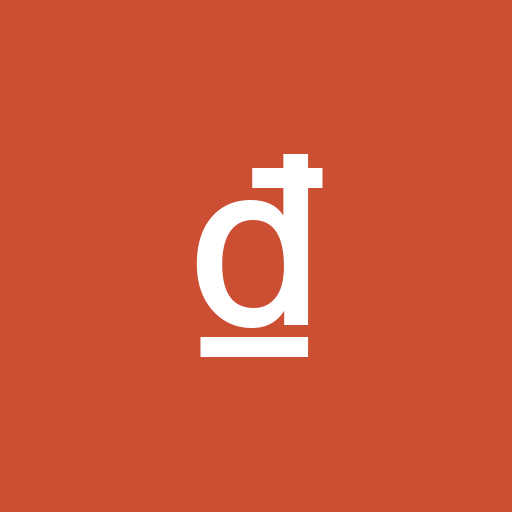
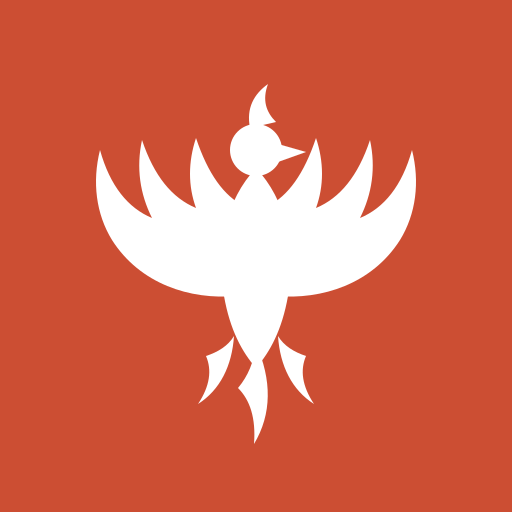
Rebrand the bot as Phoenix, reborn on the new engine
The bot got a whole new LLM engine (the pi harness swap), so it gets a
new identity to match: Phoenix, risen from the ashes of the old engine.

- @phoenix is now the mention handle (BOT_HANDLE default). Both @phoenix
  and legacy @bot are hardcoded in mention/clear detection, so old
  muscle memory and stale .env files keep working either way.
- The persona introduces itself as Phoenix and can explain its name
  when asked (reborn on a new engine — no invented technical detail).
- History rendering labels bot lines 'phoenix:' to match the persona;
  bench export mirrors it so replays stay faithful.
- App renamed user-facing: manifest (Phoenix — chia tiền ăn), page
  title, landing h1, room-switcher fallback, chat labels, composer
  placeholder, suggestion chips, empty-state and typing indicators.
- New app icon: a white phoenix rising from flame on the existing
  #CC4E33 terracotta, drawn as SVG (scripts/icon-phoenix.svg) and
  rasterized by the rewritten gen-icons.py (cairosvg). Service-worker
  cache bumped to phoenix-v1 so installed PWAs pick everything up.

Tests: backend 751 passed, frontend 203 passed, next build clean.

Claude-Session: https://claude.ai/code/session_01MQHWo9HDQnExpz4KJa6tKk

Changed region(s): [[0.1875, 0.1562, 0.8125, 0.8438]]

diff --git a/frontend/src/components/chat/suggestion-chips.tsx b/frontend/src/components/chat/suggestion-chips.tsx
@@ -1,10 +1,10 @@
 "use client";
 
 /** Capability suggestions surfaced as tappable chips above the composer.
- * Tapping one prefills the composer with an editable `@bot …` message (it never
- * auto-sends), so newcomers discover what the bot can do. `text` is the exact
- * prefill inserted; a trailing space (e.g. "@bot I paid ") invites completion,
- * while a full phrase is ready to send as-is. */
+ * Tapping one prefills the composer with an editable `@phoenix …` message (it
+ * never auto-sends), so newcomers discover what the bot can do. `text` is the
+ * exact prefill inserted; a trailing space (e.g. "@phoenix I paid ") invites
+ * completion, while a full phrase is ready to send as-is. */
 export interface Suggestion {
   label: string;
   icon: string;
@@ -12,9 +12,9 @@ export interface Suggestion {
 }
 
 export const SUGGESTIONS: Suggestion[] = [
-  { label: "Log an expense", icon: "🍜", text: "@bot I paid " },
-  { label: "Who pays this week", icon: "🧮", text: "@bot who pays this week" },
-  { label: "Who do I owe", icon: "💰", text: "@bot how much do I owe" },
+  { label: "Log an expense", icon: "🍜", text: "@phoenix I paid " },
+  { label: "Who pays this week", icon: "🧮", text: "@phoenix who pays this week" },
+  { label: "Who do I owe", icon: "💰", text: "@phoenix how much do I owe" },
 ];
 
 export function SuggestionChips({ onPick }: { onPick: (text: string) => void }) {

diff --git a/frontend/src/components/chat/message-list.tsx b/frontend/src/components/chat/message-list.tsx
@@ -114,7 +114,7 @@ export function MessageList({
         ) : m.kind === "expense_draft" ? (
           <div key={m.id} className="flex flex-col items-start">
             <span className="mb-1 px-1 text-xs font-medium text-[var(--accent-text)]">
-              Bot
+              Phoenix
             </span>
             {turnSteps && <AgentTimeline steps={turnSteps} live={false} />}
             <ExpenseDraftCard message={m} members={members} roomId={roomId} />
@@ -122,7 +122,7 @@ export function MessageList({
         ) : m.kind === "payment_draft" ? (
           <div key={m.id} className="flex flex-col items-start">
             <span className="mb-1 px-1 text-xs font-medium text-[var(--accent-text)]">
-              Bot
+              Phoenix
             </span>
             {turnSteps && <AgentTimeline steps={turnSteps} live={false} />}
             <PaymentDraftCard message={m} members={members} roomId={roomId} />
@@ -130,7 +130,7 @@ export function MessageList({
         ) : m.kind === "bot" ? (
           <div key={m.id} className="flex flex-col items-start">
             <span className="mb-1 px-1 text-xs font-medium text-[var(--accent-text)]">
-              Bot
+              Phoenix
             </span>
             <BotMessage body={m.body} attachments={m.attachments} roomId={roomId}
                         members={members} onOpenLedger={onOpenLedger} />

diff --git a/frontend/src/components/chat/room-view.tsx b/frontend/src/components/chat/room-view.tsx
@@ -503,7 +503,7 @@ export function RoomView({ roomId }: { roomId: number }) {
           )}
           {messages.length === 0 && !hasMore && !typing && (
             <p className="mt-8 text-center text-sm text-[var(--text-secondary)]">
-              No messages yet. Tap a suggestion below or message @bot.
+              No messages yet. Tap a suggestion below or message @phoenix.
             </p>
           )}
           <MessageList messages={messages} members={members} roomId={roomId} timelines={timelines}
@@ -527,7 +527,7 @@ export function RoomView({ roomId }: { roomId: number }) {
                     <span className="h-1.5 w-1.5 animate-bounce rounded-full bg-[var(--accent-primary)] [animation-delay:-0.15s]" />
                     <span className="h-1.5 w-1.5 animate-bounce rounded-full bg-[var(--accent-primary)]" />
                   </span>
-                  bot is replying…
+                  Phoenix is replying…
                 </div>
               )}
             </>

diff --git a/frontend/src/components/chat/composer.tsx b/frontend/src/components/chat/composer.tsx
@@ -30,7 +30,7 @@ export function Composer({ onSend }: ComposerProps) {
   const [sending, setSending] = useState(false);
   const [processing, setProcessing] = useState(false);
   const [notice, setNotice] = useState("");
-  const [handles, setHandles] = useState<string[]>(["bot"]);
+  const [handles, setHandles] = useState<string[]>(["phoenix"]);
   const [mention, setMention] = useState<MentionState | null>(null);
   const fileRef = useRef<HTMLInputElement>(null);
   const textareaRef = useRef<HTMLTextAreaElement>(null);
@@ -277,7 +277,7 @@ export function Composer({ onSend }: ComposerProps) {
             onClick={(e) => recomputeMention(e.currentTarget)}
             onBlur={() => setMention(null)}
             rows={1}
-            placeholder="Message… (@bot)"
+            placeholder="Message… (@phoenix)"
             aria-label="Compose message"
             aria-expanded={mention !== null && mentionItems.length > 0}
             aria-haspopup="listbox"

diff --git a/frontend/src/components/chat/__tests__/composer-suggestions.test.tsx b/frontend/src/components/chat/__tests__/composer-suggestions.test.tsx
@@ -4,7 +4,7 @@ import { Composer } from "../composer";
 import { SUGGESTIONS } from "../suggestion-chips";
 
 // Composer fetches the bot handle on mount; stub it so tests don't hit the network.
-vi.mock("@/lib/api", () => ({ botHandle: () => Promise.resolve("bot") }));
+vi.mock("@/lib/api", () => ({ botHandle: () => Promise.resolve("phoenix") }));
 
 describe("Composer suggestion chips", () => {
   it("shows capability chips while the composer is empty", () => {
@@ -25,7 +25,7 @@ describe("Composer suggestion chips", () => {
     render(<Composer onSend={() => {}} />);
     const textarea = screen.getByLabelText("Compose message");
 
-    fireEvent.change(textarea, { target: { value: "@bot hi" } });
+    fireEvent.change(textarea, { target: { value: "@phoenix hi" } });
 
     expect(screen.queryByRole("button", { name: new RegExp(SUGGESTIONS[0].label) })).not.toBeInTheDocument();
   });

diff --git a/frontend/src/components/chat/room-switcher.tsx b/frontend/src/components/chat/room-switcher.tsx
@@ -34,13 +34,13 @@ export function RoomSwitcher() {
     <div ref={ref} className="relative min-w-0">
       <button
         type="button"
-        aria-label={`Room menu: ${roomName || "chiatienan"}`}
+        aria-label={`Room menu: ${roomName || "Phoenix"}`}
         aria-haspopup="menu"
         aria-expanded={open}
         onClick={() => setOpen((o) => !o)}
         className="flex min-w-0 items-center gap-1 text-base font-semibold text-[var(--text-primary)]"
       >
-        <span className="truncate">{roomName || "chiatienan"}</span>
+        <span className="truncate">{roomName || "Phoenix"}</span>
         <svg viewBox="0 0 20 20" fill="currentColor" aria-hidden className="h-4 w-4 shrink-0 text-[var(--text-secondary)]">
           <path
             fillRule="evenodd"

diff --git a/frontend/src/app/layout.tsx b/frontend/src/app/layout.tsx
@@ -9,12 +9,12 @@ const inter = Inter({ subsets: ["latin", "vietnamese"], variable: "--font-inter"
 const mono = JetBrains_Mono({ subsets: ["latin"], variable: "--font-jetbrains" });
 
 export const metadata: Metadata = {
-  title: "chiatienan",
-  applicationName: "chiatienan",
+  title: "Phoenix",
+  applicationName: "Phoenix",
   manifest: "/manifest.webmanifest",
   // iOS doesn't read the web manifest for "Add to Home Screen"; these give it a
   // standalone launch, a titled icon, and a crisp home-screen glyph.
-  appleWebApp: { capable: true, title: "chiatienan", statusBarStyle: "default" },
+  appleWebApp: { capable: true, title: "Phoenix", statusBarStyle: "default" },
   icons: {
     icon: "/icon-192.png",
     apple: [{ url: "/icon-192.png", sizes: "180x180" }],

diff --git a/frontend/src/components/chat/agent-timeline.tsx b/frontend/src/components/chat/agent-timeline.tsx
@@ -17,7 +17,7 @@ export function AgentTimeline({ steps, live }: { steps: TimelineStep[]; live: bo
     <div className="mt-2 rounded-lg border border-[var(--border)] bg-[var(--bg-surface)] px-3 py-2 text-xs text-[var(--text-secondary)]">
       <button type="button" onClick={() => setOpen((v) => !v)} className="flex w-full items-center gap-2 text-left">
         <span className="font-medium text-[var(--accent-text)]">
-          {live ? "Bot is working…" : `▸ ${steps.length} steps`}
+          {live ? "Phoenix is working…" : `▸ ${steps.length} steps`}
         </span>
       </button>
       {!collapsed && (

diff --git a/frontend/src/app/page.tsx b/frontend/src/app/page.tsx
@@ -11,7 +11,7 @@ export default function Home() {
     return (
       <main className="flex min-h-dvh items-center justify-center bg-[var(--bg-base)] p-8">
         <div className="max-w-md rounded-lg border border-[var(--border)] bg-[var(--bg-surface)] px-8 py-8 text-center shadow-sm">
-          <h1 className="text-xl font-semibold text-[var(--text-primary)]">chiatienan</h1>
+          <h1 className="text-xl font-semibold text-[var(--text-primary)]">Phoenix</h1>
           <p className="mt-2 text-sm text-[var(--text-secondary)]">
             Join a room with an invite link, or start a new one.
           </p>

diff --git a/frontend/src/lib/api.ts b/frontend/src/lib/api.ts
@@ -34,7 +34,7 @@ export const roomInfo = (t: string) => req(`/api/rooms/${t}`);
 /** The bot's @-mention handle. Scope is bot-only for now, so this is a stable
  * constant rather than a network round-trip; swap for a real lookup if
  * multiple bot handles are ever configured. */
-export const botHandle = async (): Promise<string> => "bot";
+export const botHandle = async (): Promise<string> => "phoenix";
 
 export const createAccount = (t: string, b: any) =>
   req(`/api/rooms/${t}/accounts`, { method: "POST", body: JSON.stringify(b) });

diff --git a/frontend/public/sw.js b/frontend/public/sw.js
@@ -11,7 +11,9 @@
 //                                 the stream must not be buffered by a cache).
 //
 // Bump CACHE to invalidate everything on the next activate.
-const CACHE = "chiatienan-v1";
+// "phoenix-v1": the Phoenix rebrand shipped new icons + manifest, and installed
+// PWAs would otherwise keep serving the cached old ones forever.
+const CACHE = "phoenix-v1";
 const SHELL = ["/", "/manifest.webmanifest", "/icon-192.png", "/icon-512.png"];
 
 self.addEventListener("install", (event) => {

diff --git a/frontend/src/components/chat/__tests__/suggestion-chips.test.tsx b/frontend/src/components/chat/__tests__/suggestion-chips.test.tsx
@@ -19,9 +19,9 @@ describe("SuggestionChips", () => {
     expect(onPick).toHaveBeenCalledWith(SUGGESTIONS[0].text);
   });
 
-  it("suggests capabilities that address @bot in English", () => {
+  it("suggests capabilities that address @phoenix in English", () => {
     for (const s of SUGGESTIONS) {
-      expect(s.text.startsWith("@bot ")).toBe(true);
+      expect(s.text.startsWith("@phoenix ")).toBe(true);
     }
   });
 });
